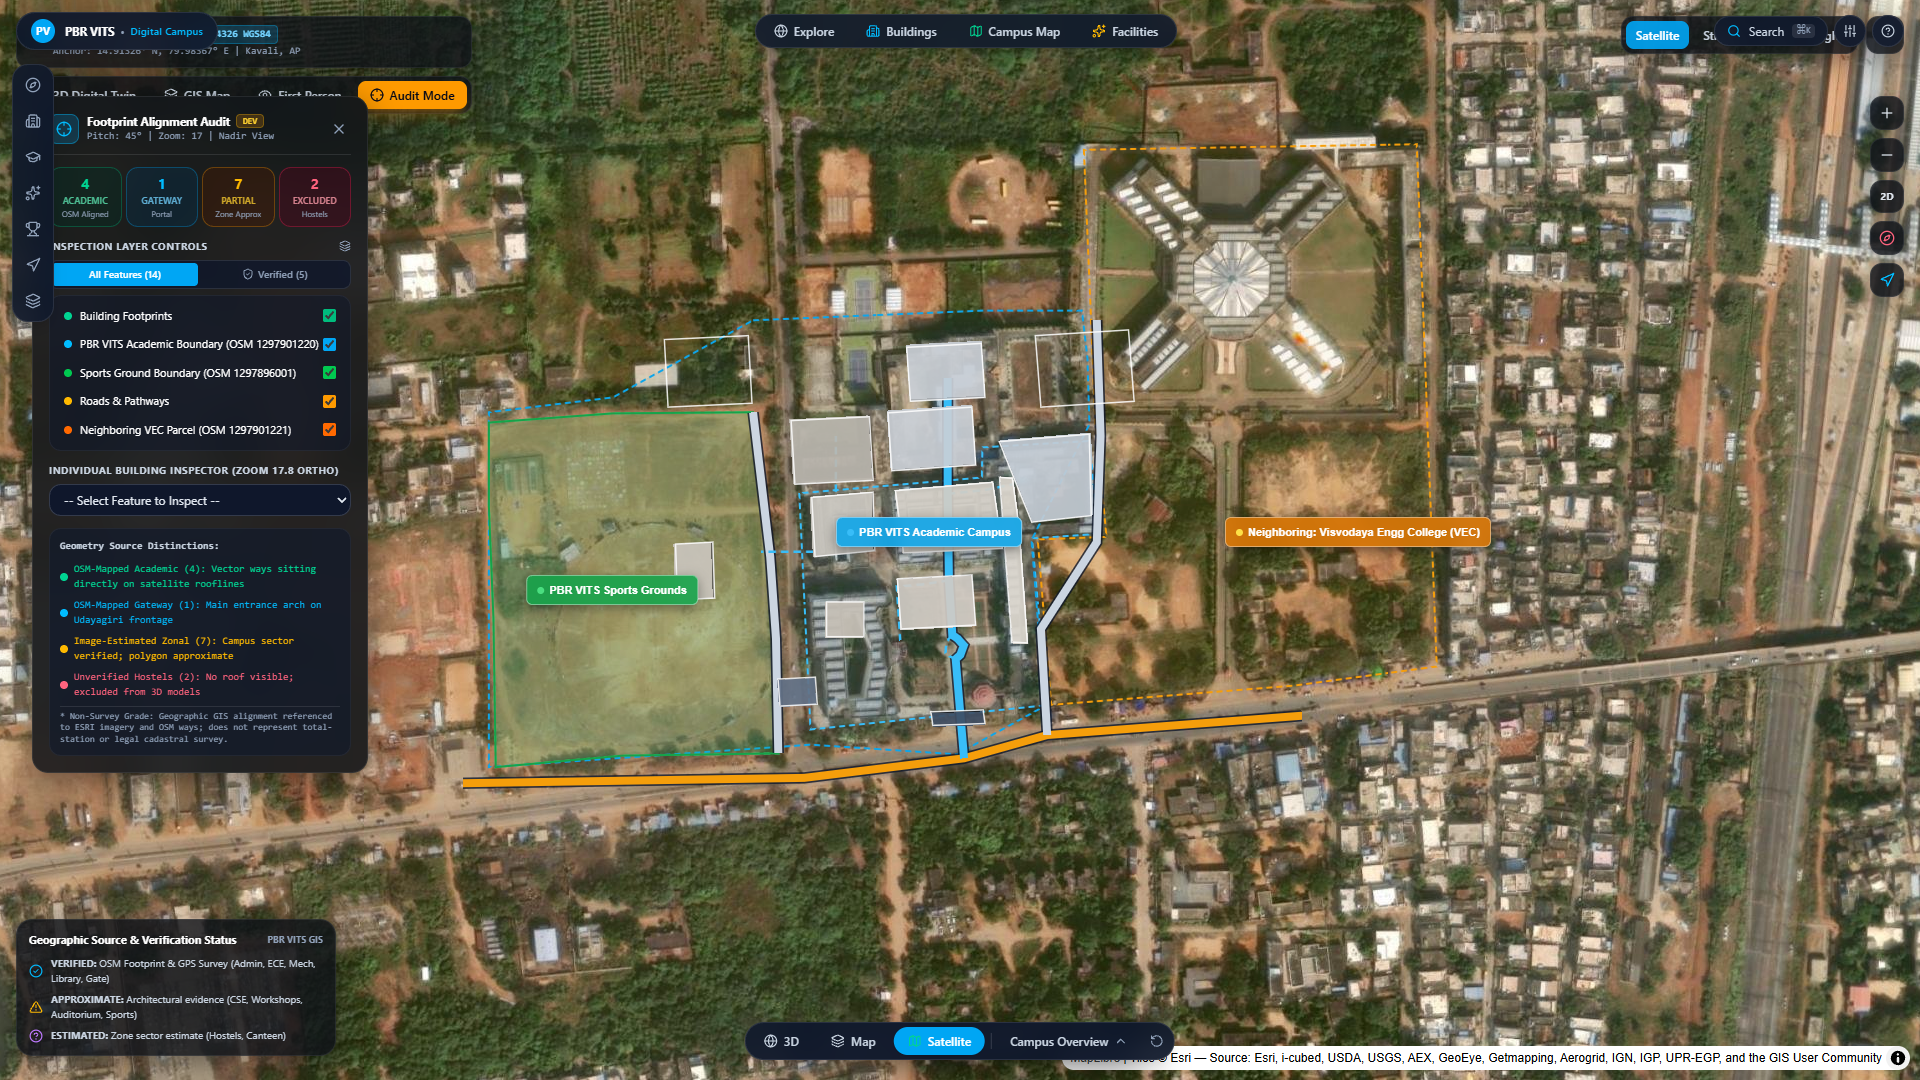
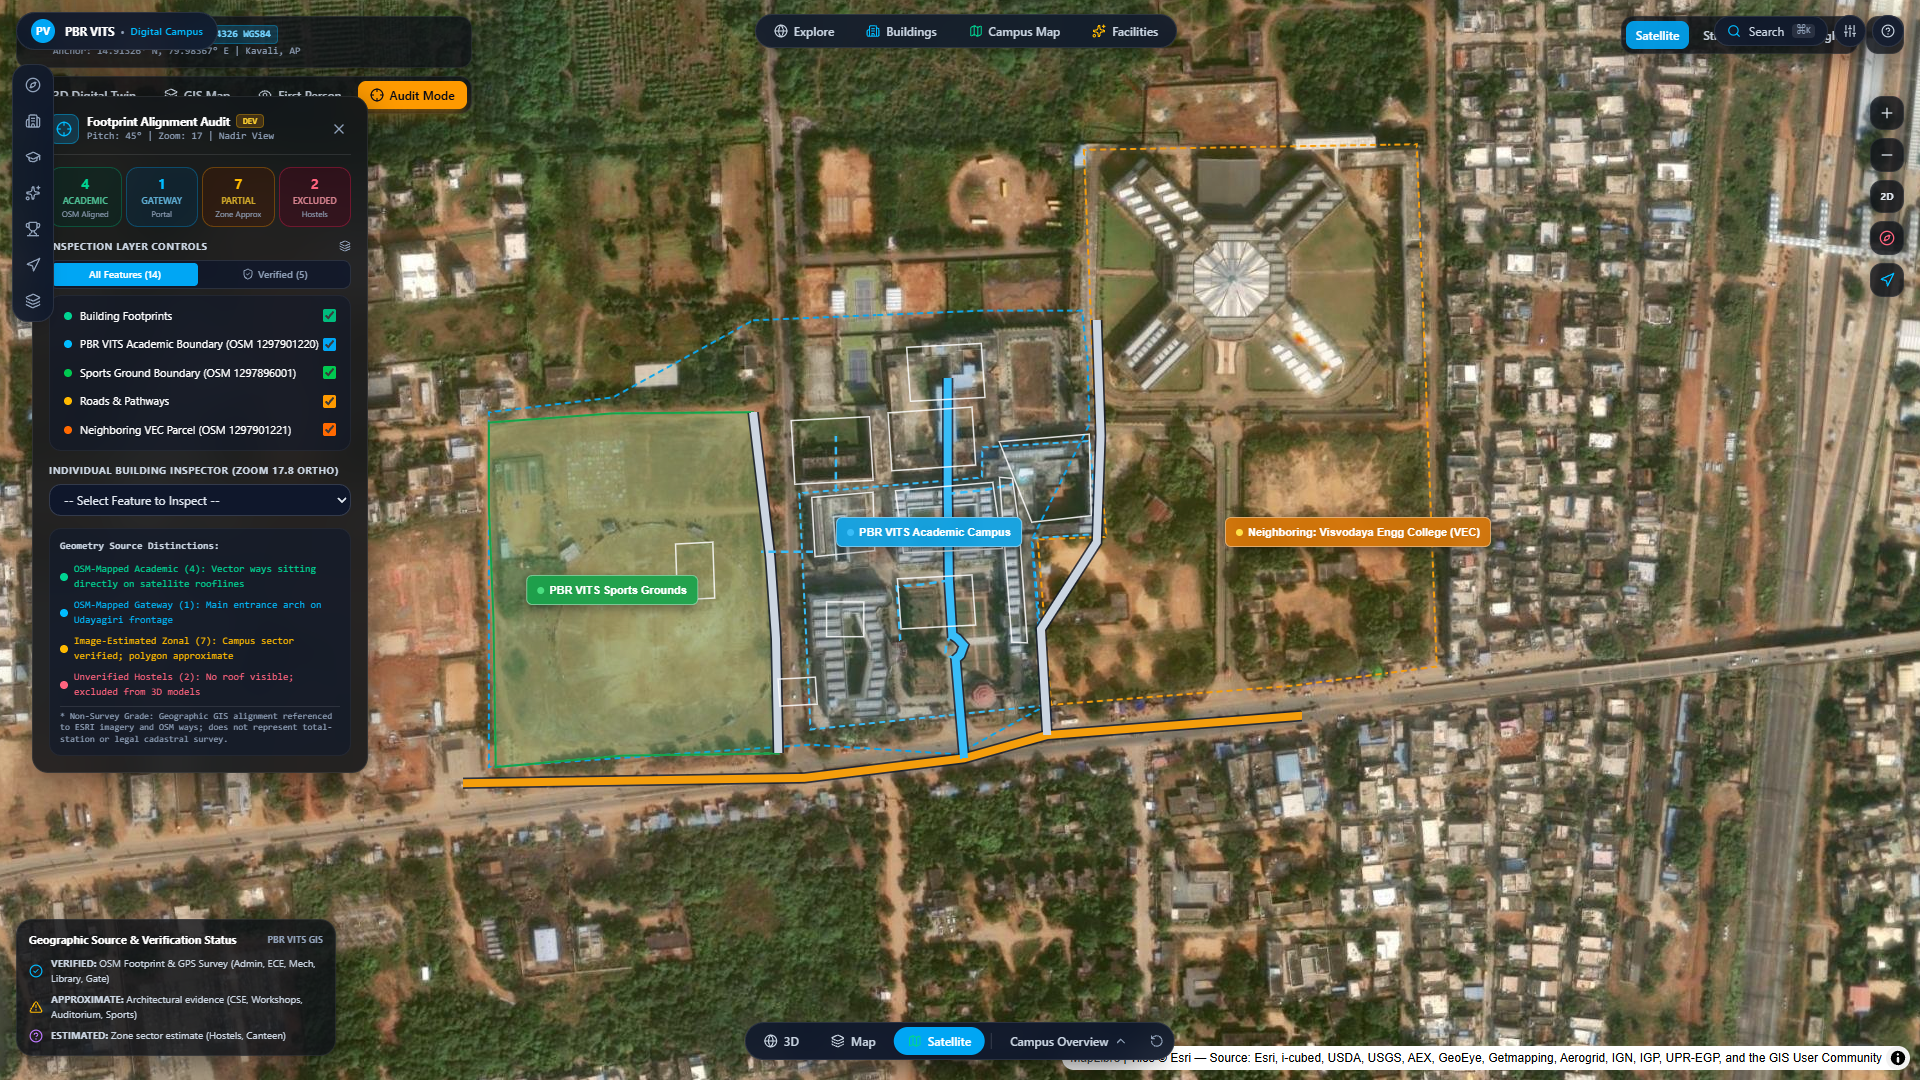
fix(gis): set numeric literal for fill-extrusion-opacity to eliminate MapLibre paint error

diff --git a/src/components/gis/CampusGISMap.tsx b/src/components/gis/CampusGISMap.tsx
@@ -319,11 +319,7 @@ export const CampusGISMap: React.FC<CampusGISMapProps> = ({
           ],
           'fill-extrusion-height': ['get', 'height'],
           'fill-extrusion-base': 0,
-          'fill-extrusion-opacity': [
-            'case',
-            ['==', ['get', 'alignmentStatus'], 'PARTIALLY ALIGNED'], 0.72,
-            0.92
-          ]
+          'fill-extrusion-opacity': 0.88
         }
       });
 
